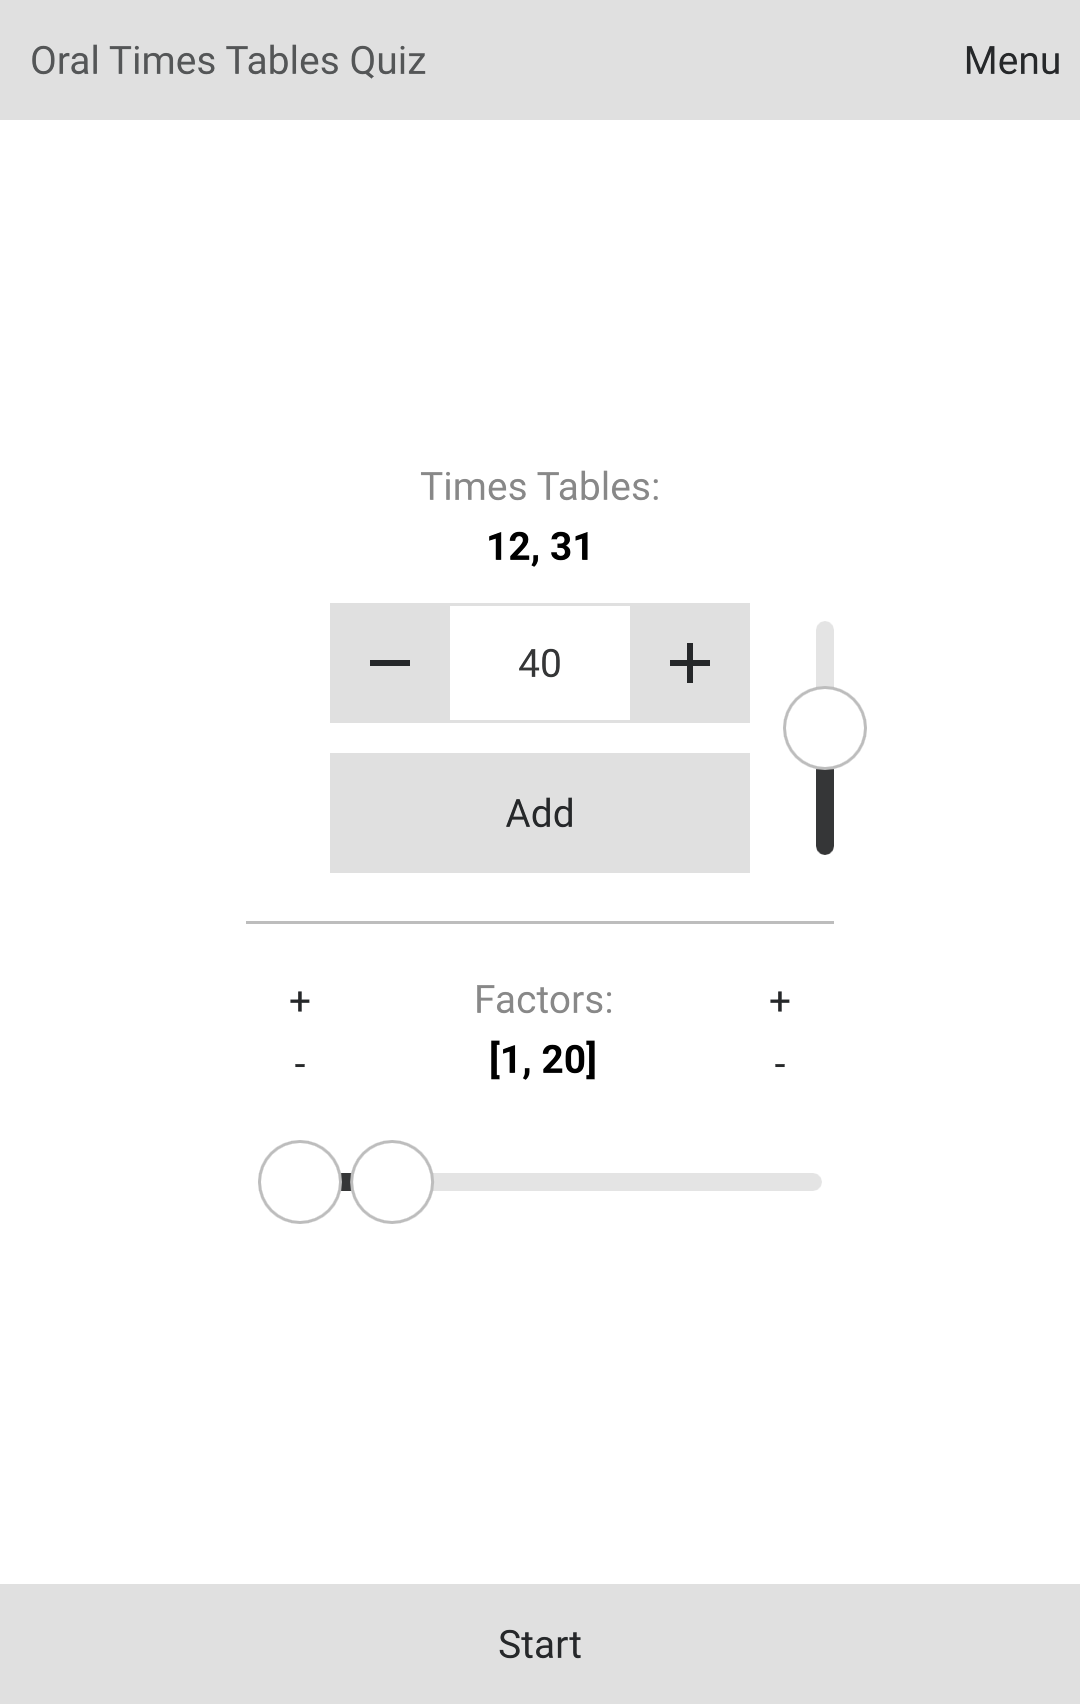
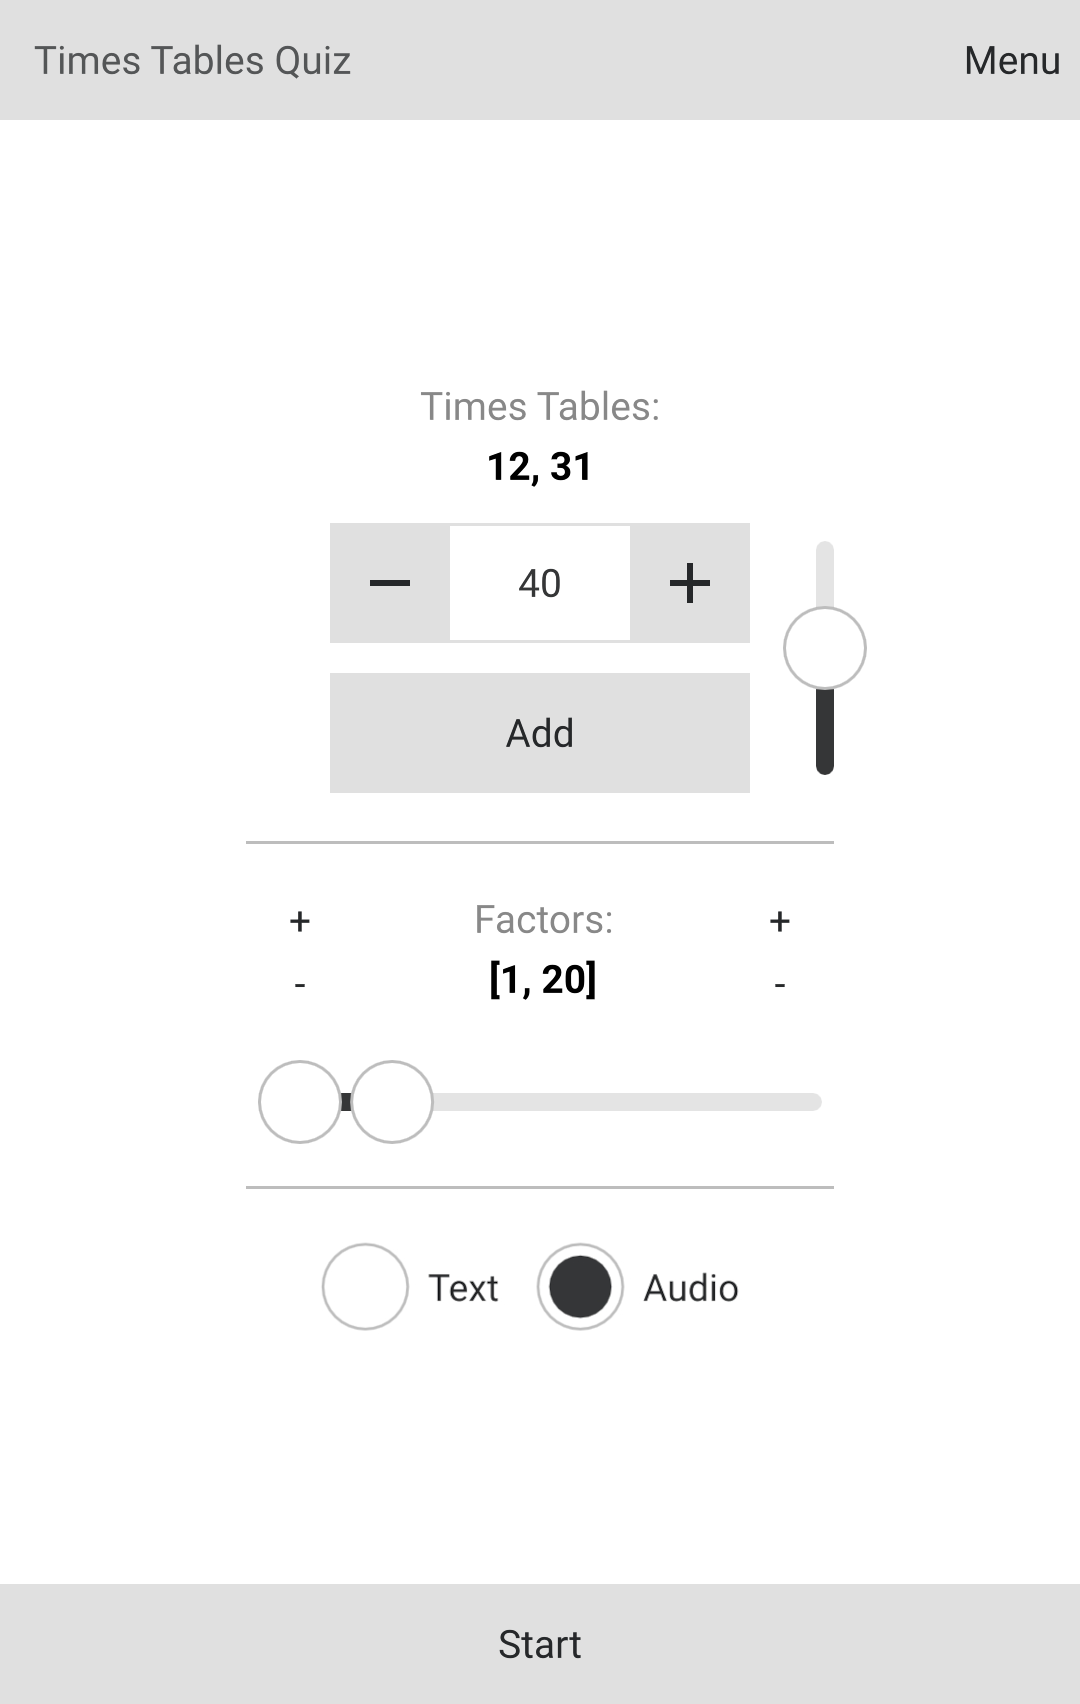
Merge pull request #26 from mal-no/feat/text-based-quiz
Add text-based quiz

Pull request: Add text-based quiz

diff --git a/src/app/QuizView.qml b/src/app/QuizView.qml
@@ -1,4 +1,4 @@
-import OttqApp
+import TtqApp
 import QtQuick
 import QtQuick.Controls.Basic
 import QtTextToSpeech
@@ -30,17 +30,28 @@ FocusScope {
 
     function sayQuestion() {
         var q = quiz.question();
-        var qStrBase = translator.translate(q.questionBase);
+        var qStrBase;
+        if (qRoot.config.showQuestion) {
+            qStrBase = q.questionBase;
+        } else {
+            qStrBase = q.ttsQuestionBase;
+            qStrBase = translator.translate(qStrBase);
+        }
         var qStr = qStrBase.arg(q.number).arg(q.factor);
         // Stop current question and start next right away instead of
         // enqueueing. This way the quiz is more snappy.
-        if (tts.state === TextToSpeech.Speaking) {
-            tts.stop();
-            tts.say(qStr);
+
+        if (qRoot.config.showQuestion) {
+            txtQuestion.text = qStr;
         } else {
-            // Enqueue in case tts is not ready for reasons other than
-            // currently speaking.
-            tts.enqueue(qStr);
+            if (tts.state === TextToSpeech.Speaking) {
+                tts.stop();
+                tts.say(qStr);
+            } else {
+                // Enqueue in case tts is not ready for reasons other than
+                // currently speaking.
+                tts.enqueue(qStr);
+            }
         }
     }
 
@@ -51,6 +62,10 @@ FocusScope {
             name: "unavailable"
 
             PropertyChanges {
+                txtQuestion {
+                    visible: false
+                }
+
                 answerInput {
                     enabled: false
                     focus: false
@@ -69,6 +84,10 @@ FocusScope {
                 btnReplay {
                     visible: false
                 }
+
+                labelLocale {
+                    visible: false
+                }
             }
         },
         State {
@@ -82,10 +101,6 @@ FocusScope {
 
                 progressBarTtsLoading {
                     visible: true
-                }
-
-                labelLocale {
-                    text: ""
                 }
             }
         },
@@ -113,6 +128,10 @@ FocusScope {
             name: "available"
 
             PropertyChanges {
+                txtQuestion {
+                    visible: qRoot.config.showQuestion
+                }
+
                 answerInput {
                     enabled: true
                     focus: true
@@ -129,7 +148,11 @@ FocusScope {
                 }
 
                 btnReplay {
-                    visible: true
+                    visible: !qRoot.config.showQuestion
+                }
+
+                labelLocale {
+                    visible: !qRoot.config.showQuestion
                 }
             }
         },
@@ -150,14 +173,20 @@ FocusScope {
         quiz.setup(qRoot.config);
         var ttsAvailable = tts.state === TextToSpeech.Ready;
         var quizAvailable = quiz.numQuestionsRemaining >= 0;
-        if (ttsAvailable && quizAvailable) {
+        if (!qRoot.config.showQuestion && ttsAvailable && quizAvailable) {
             var ttsSettingUp = ttsStateChangeConnection.enabled;
             qRoot.state = ttsSettingUp ? "setting-up" : "available";
             qRoot.sayQuestion();
+        } else if (qRoot.config.showQuestion && quizAvailable) {
+            qRoot.state = "available";
+            qRoot.sayQuestion();
+        } else {
+            qRoot.state = "unavailable";
         }
     }
     StackView.onDeactivated: {
         qRoot.state = "setting-up";
+        txtQuestion.text = "";
     }
     onShowLocaleError: {
         dlgLocaleError.open();
@@ -201,6 +230,14 @@ FocusScope {
             var num = quiz.numQuestionsRemaining;
             return num === 0 ? qsTr("Last question") : num + " " + qsTr("left");
         }
+    }
+
+    Text {
+        id: txtQuestion
+
+        anchors.bottom: answerInput.top
+        anchors.bottomMargin: 10
+        anchors.horizontalCenter: parent.horizontalCenter
     }
 
     TextArea {
@@ -291,7 +328,10 @@ FocusScope {
         locale: Qt.locale(translator.localeName)
         rate: QuizSettings.voiceRate
 
-        onLocaleChanged: ttsStateChangeConnection.enabled = true
+        onLocaleChanged: {
+            if (!qRoot.config.showQuestion)
+                ttsStateChangeConnection.enabled = true;
+        }
     }
 
     Connections {
@@ -302,7 +342,7 @@ FocusScope {
                 qRoot.state = "unavailable";
         }
 
-        enabled: !ttsStateChangeConnection.enabled
+        enabled: !ttsStateChangeConnection.enabled && !qRoot.config.showQuestion
         target: tts
     }
 

diff --git a/src/app/QuizConfigView.qml b/src/app/QuizConfigView.qml
@@ -1,13 +1,20 @@
 pragma ComponentBehavior: Bound
-import OttqApp
+import TtqApp
 import QtQuick
 import QtQuick.Controls.Basic
 import QtQuick.Layouts
+import QtCore
 
 Item {
     id: suRoot
 
     property quizConfiguration config
+
+    Settings {
+        id: settings
+
+        property alias showQuestion: radioShowQuestion.checked
+    }
 
     Column {
         anchors.centerIn: parent
@@ -180,6 +187,35 @@ Item {
 
             first.onMoved: suRoot.config.factorRange.first = intFirst
             second.onMoved: suRoot.config.factorRange.second = intSecond
+        }
+
+        MenuSeparator {
+            anchors.horizontalCenter: parent.horizontalCenter
+            width: parent.width
+        }
+
+        Row {
+            anchors.horizontalCenter: parent.horizontalCenter
+
+            RadioButton {
+                id: radioShowQuestion
+
+                // Initialized by settings.
+                checked: true
+                text: qsTr("Text")
+
+                onCheckedChanged: suRoot.config.showQuestion = checked
+            }
+
+            RadioButton {
+                // If the other radio button is not initialized to checked,
+                // this one will not get automatically checked, so explicitely
+                // initialize it to true.
+                // Apart from the init, the switch would normally be handled by
+                // the parent but is now overriden.
+                checked: !radioShowQuestion.checked
+                text: qsTr("Audio")
+            }
         }
     }
 

diff --git a/src/app/i18n/qml_de.ts b/src/app/i18n/qml_de.ts
@@ -6,8 +6,8 @@
     <message>
         <location filename="../Main.qml" line="9"/>
         <location filename="../Main.qml" line="76"/>
-        <source>Oral Times Tables Quiz</source>
-        <translation>Oral Times Tables Quiz</translation>
+        <source>Times Tables Quiz</source>
+        <translation>Times Tables Quiz</translation>
     </message>
     <message>
         <location filename="../Main.qml" line="47"/>
@@ -146,6 +146,16 @@
         <location filename="../QuizConfigView.qml" line="182"/>
         <source>Resetting Times Tables</source>
         <translation>Reihen zurücksetzen</translation>
+    </message>
+    <message>
+        <location filename="../QuizConfigView.qml" line="194"/>
+        <source>Text</source>
+        <translation>Text</translation>
+    </message>
+    <message>
+        <location filename="../QuizConfigView.qml" line="199"/>
+        <source>Audio</source>
+        <translation>Audio</translation>
     </message>
     <message>
         <location filename="../QuizConfigView.qml" line="192"/>

diff --git a/src/app/Main.qml b/src/app/Main.qml
@@ -1,5 +1,5 @@
 pragma ComponentBehavior: Bound
-import OttqApp
+import TtqApp
 import QtQuick
 import QtQuick.Controls.Basic
 import QtQuick.Layouts
@@ -10,7 +10,7 @@ ApplicationWindow {
     property QuizConfigView quizConfigViewInst
     property QuizView quizViewInst
 
-    title: qsTr("Oral Times Tables Quiz")
+    title: qsTr("Times Tables Quiz")
     visible: true
 
     footer: ToolBar {
@@ -64,7 +64,7 @@ ApplicationWindow {
                 elide: Label.ElideRight
                 horizontalAlignment: Qt.AlignLeft
                 opacity: 0.75
-                text: qsTr("Oral Times Tables Quiz")
+                text: root.title
                 verticalAlignment: Qt.AlignVCenter
             }
 

diff --git a/src/app/SettingsView.qml b/src/app/SettingsView.qml
@@ -1,4 +1,4 @@
-import OttqApp
+import TtqApp
 import QtQuick
 import QtQuick.Controls.Basic
 import QtQuick.Layouts

diff --git a/src/app/quiz_config.cpp b/src/app/quiz_config.cpp
@@ -21,12 +21,25 @@ FactorRange QuizConfiguration::factorRange() const
     return factorRange_;
 }
 
+bool QuizConfiguration::showQuestion() const
+{
+    return showQuestion_;
+}
+
 void QuizConfiguration::setFactorRange(const FactorRange &fr)
 {
     if (fr == factorRange_)
         return;
 
     factorRange_ = fr;
+}
+
+void QuizConfiguration::setShowQuestion(const bool &showQuestion)
+{
+    if (showQuestion == showQuestion_)
+        return;
+
+    showQuestion_ = showQuestion;
 }
 
 bool QuizConfiguration::addTimesTable(const int number)

diff --git a/src/app/question.hpp b/src/app/question.hpp
@@ -5,7 +5,8 @@
 #include <qqml.h>
 
 namespace TimesTables {
-static const char *const questionBase = "%1 times %2";
+static const char *const questionBase = "%1 x %2";
+static const char *const ttsQuestionBase = "%1 times %2";
 } // namespace TimesTables
 
 class Question
@@ -21,6 +22,9 @@ class Question
     Q_PROPERTY(QString questionBase
                READ questionBase
                FINAL)
+    Q_PROPERTY(QString ttsQuestionBase
+               READ ttsQuestionBase
+               FINAL)
     // clang-format on
     QML_VALUE_TYPE(question)
 public:
@@ -31,6 +35,7 @@ public:
     int number();
     int factor();
     QString questionBase();
+    QString ttsQuestionBase();
 
     Q_INVOKABLE bool check(const int product);
 

diff --git a/src/app/quiz_config.hpp b/src/app/quiz_config.hpp
@@ -20,6 +20,10 @@ struct QuizConfiguration
                READ factorRange
                WRITE setFactorRange
                FINAL)
+    Q_PROPERTY(bool showQuestion
+               READ showQuestion
+               WRITE setShowQuestion
+               FINAL)
     // clang-format on
     QML_VALUE_TYPE(quizConfiguration)
 
@@ -27,8 +31,10 @@ public:
     QList<int> timesTables() const;
     QString timesTablesStr() const;
     FactorRange factorRange() const;
+    bool showQuestion() const;
 
     void setFactorRange(const FactorRange &fr);
+    void setShowQuestion(const bool &showQuestion);
 
     Q_INVOKABLE bool addTimesTable(const int number);
     Q_INVOKABLE bool remove(const int timesTableNumber);
@@ -38,6 +44,7 @@ public:
 private:
     QList<int> timesTables_;
     FactorRange factorRange_;
+    bool showQuestion_ = false;
 };
 
 #endif // OTTQ_20251104_1759_INCLUDE

diff --git a/src/app/question.cpp b/src/app/question.cpp
@@ -21,6 +21,11 @@ QString Question::questionBase()
     return TimesTables::questionBase;
 }
 
+QString Question::ttsQuestionBase()
+{
+    return TimesTables::ttsQuestionBase;
+}
+
 bool Question::check(const int product)
 {
     return factor_ * number_ == product;

diff --git a/src/app/main.cpp b/src/app/main.cpp
@@ -12,12 +12,12 @@ int main(int argc, char *argv[])
         &app,
         []() { QCoreApplication::exit(-1); },
         Qt::QueuedConnection);
-    engine.loadFromModule("OttqApp", "Main");
+    engine.loadFromModule("TtqApp", "Main");
 
     // used by settings
     QCoreApplication::setOrganizationName("xnelma");
     QCoreApplication::setOrganizationDomain("github.com/xnelma");
-    QCoreApplication::setApplicationName("Oral Times Tables Quiz");
+    QCoreApplication::setApplicationName("Times Tables Quiz");
 
     return app.exec();
 }

diff --git a/README.md b/README.md
@@ -1,4 +1,4 @@
-# Oral Times Tables Quiz
+# Times Tables Quiz
 
 This is an app that asks times tables up to 100 x 100. It should run on the platforms supported by Qt 6.7; so far I built it for Android (lowest 8.0) and Ubuntu 24.04.
 